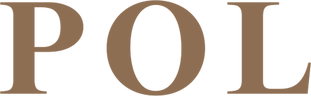
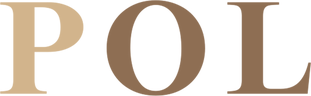
ヘッダーの POL の P を以前の砂色に戻す

Changed region(s): [[0.0, 0.0, 0.2894, 1.0]]

diff --git a/online_shop.html b/online_shop.html
@@ -46,7 +46,7 @@
 
     <header class="header">
         <div class="container header-container">
-            <h1 class="logo"><a href="index.html"><img src="images/pol_logo_muffin.webp" alt="pol"><span class="logo-text"><img class="logo-pol" src="images/pol_moji.png" alt="POL"> sweets<span class="text-raspberry">&</span>bread</span></a></h1>
+            <h1 class="logo"><a href="index.html"><img src="images/pol_logo_muffin.webp" alt="pol"><span class="logo-text"><img class="logo-pol" src="images/pol_moji.png?v=2" alt="POL"> sweets<span class="text-raspberry">&</span>bread</span></a></h1>
             <nav class="hidden md:block">
                 <ul class="flex gap-8 text-sm font-medium">
                     <li><a href="index.html#hero" class="hover:text-[#c1a173] transition">ホーム</a></li>

diff --git a/reservation.html b/reservation.html
@@ -22,7 +22,7 @@
 
     <header class="header">
         <div class="container header-container">
-            <h1 class="logo"><a href="index.html"><img src="images/pol_logo_muffin.webp" alt="pol"><span class="logo-text"><img class="logo-pol" src="images/pol_moji.png" alt="POL"> sweets<span class="text-raspberry">&</span>bread</span></a></h1>
+            <h1 class="logo"><a href="index.html"><img src="images/pol_logo_muffin.webp" alt="pol"><span class="logo-text"><img class="logo-pol" src="images/pol_moji.png?v=2" alt="POL"> sweets<span class="text-raspberry">&</span>bread</span></a></h1>
             <nav class="nav">
                 <ul>
                     <li><a href="index.html#hero">ホーム</a></li>

diff --git a/index.html b/index.html
@@ -77,7 +77,7 @@
 <body>
     <header class="header">
         <div class="container header-container">
-            <h1 class="logo"><a href="#hero"><img src="images/pol_logo_muffin.webp" alt="pol"><span class="logo-text"><img class="logo-pol" src="images/pol_moji.png" alt="POL"> sweets<span class="text-raspberry">&</span>bread</span></a></h1>
+            <h1 class="logo"><a href="#hero"><img src="images/pol_logo_muffin.webp" alt="pol"><span class="logo-text"><img class="logo-pol" src="images/pol_moji.png?v=2" alt="POL"> sweets<span class="text-raspberry">&</span>bread</span></a></h1>
             <nav class="nav">
                 <ul>
                     <li><a href="#hero">ホーム</a></li>
